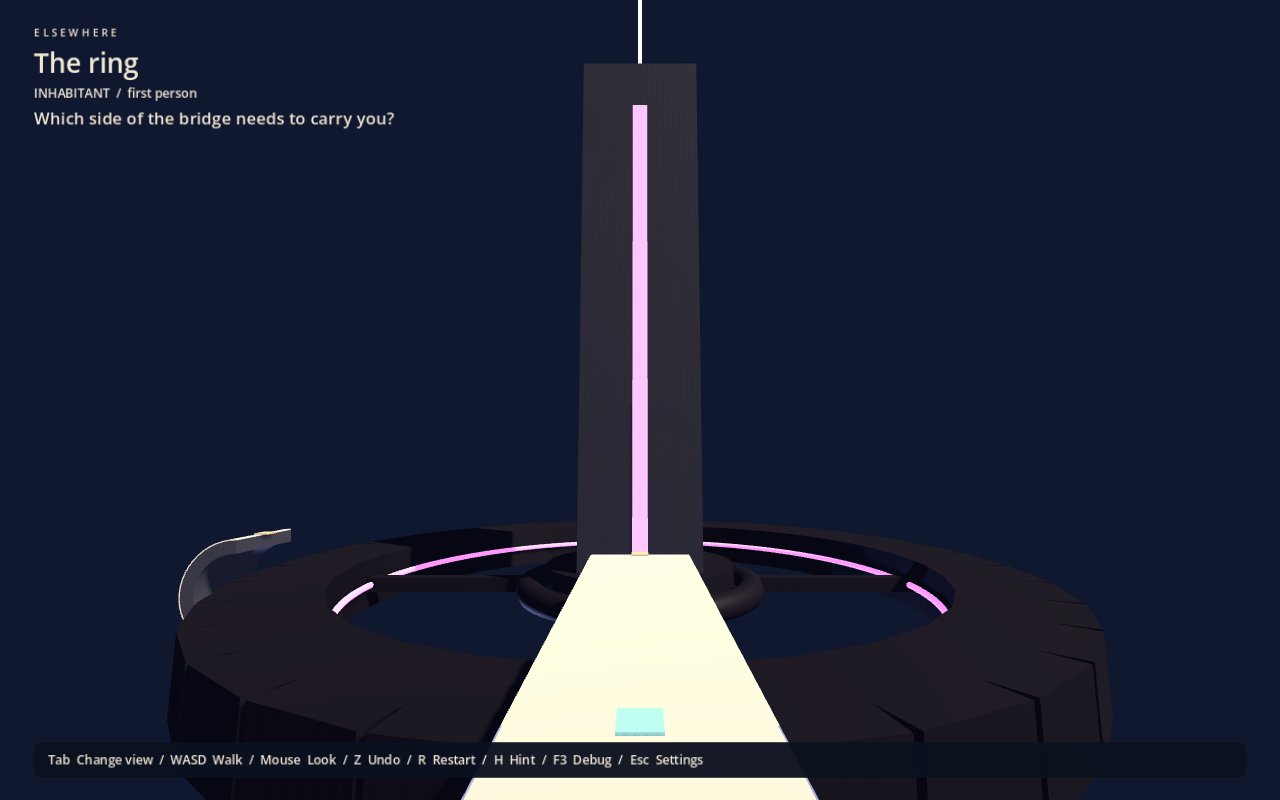
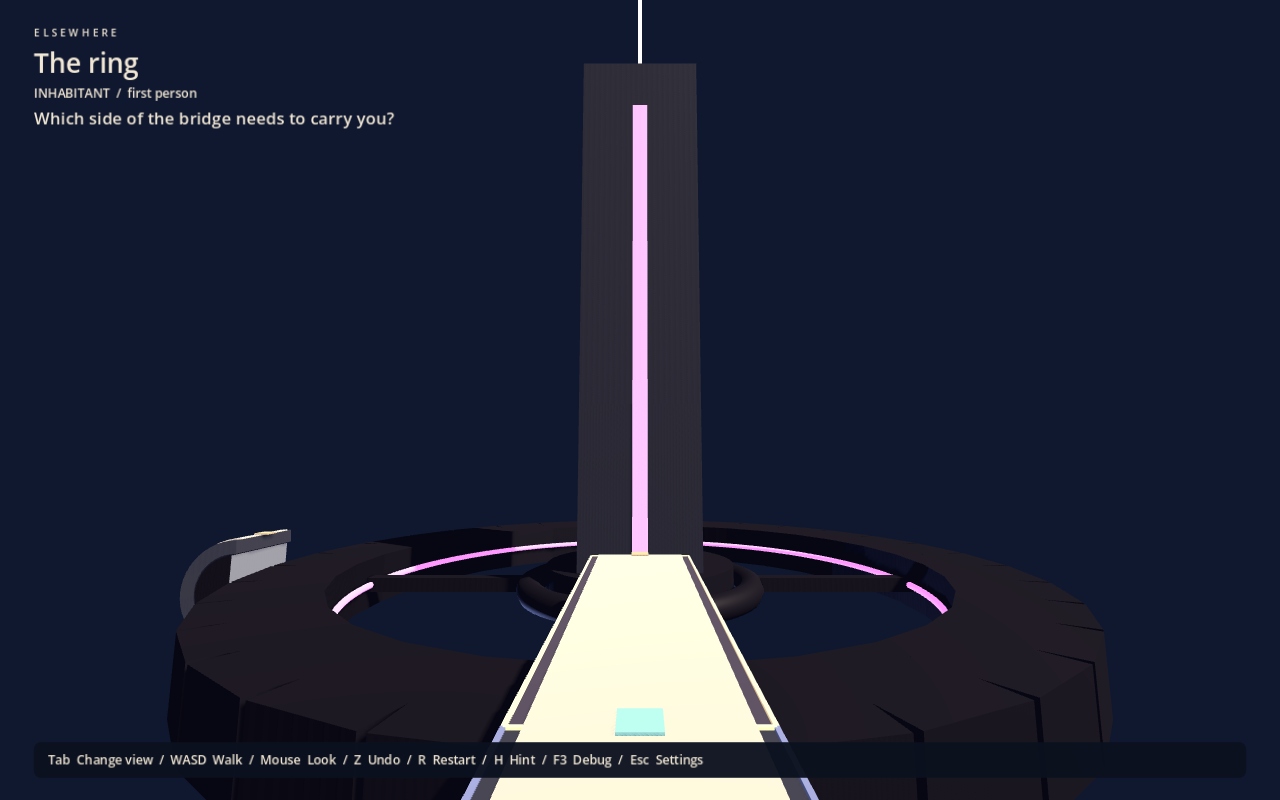
Give The Ring's passages structural mass and an illuminated destination
Walkable surfaces become a light inlay inset in a dark rim (paths and gravity
curves), keeping walk regions unchanged. The balcony and terrace merge into
one rounded pier head, the stair gains a solid core inside its curve, and
the entry becomes an outpost on a pier. The terrace doorway's edges glow in
the ring's magenta so the destination reads as an illuminated opening; the
tree is reduced to a small muted canopy. All new pieces are art outside the
bridge's sweep, so puzzle and tests are unchanged.

diff --git a/docs/authoring.md b/docs/authoring.md
@@ -51,6 +51,8 @@ All eight runtime behaviours are described through the same component script and
 
 Use custom MeshInstance3D nodes or imported scene geometry alongside behaviour nodes beneath a structure. The Bell Cradle's ring demonstrates this separation. A mesh does not automatically create a walkable face, socket or collision shape.
 
+Walkable surfaces render as a light inlay inside a dark rim (`SurfacePiece.PAVING_RIM`, 0.12 m) across their width; the rim is still walkable, so keep it narrow. Joined passages stay continuous along their length.
+
 Set a path's **blockout=false** to hide its generated structural mass and place custom artwork around its logical route. Ivory paving still marks traversal. For additional physical interference, use geometry components as box proxies matching the visible architecture. Curved and path solids retain analytic body/camera/rotation queries. Arbitrary concave mesh collision is not implemented; the current rotation sweep uses oriented boxes.
 
 Path **collision_boxes** are expressed relative to the generated contact body's centre, which lies half the thickness below the component's walking plane. This supports recessed hinges without shortening the walking lip. Rect2 regions use local X/Z coordinates; leaving `collision_boxes` empty generates matching structural boxes for those regions. The observatory receiver is an example.
